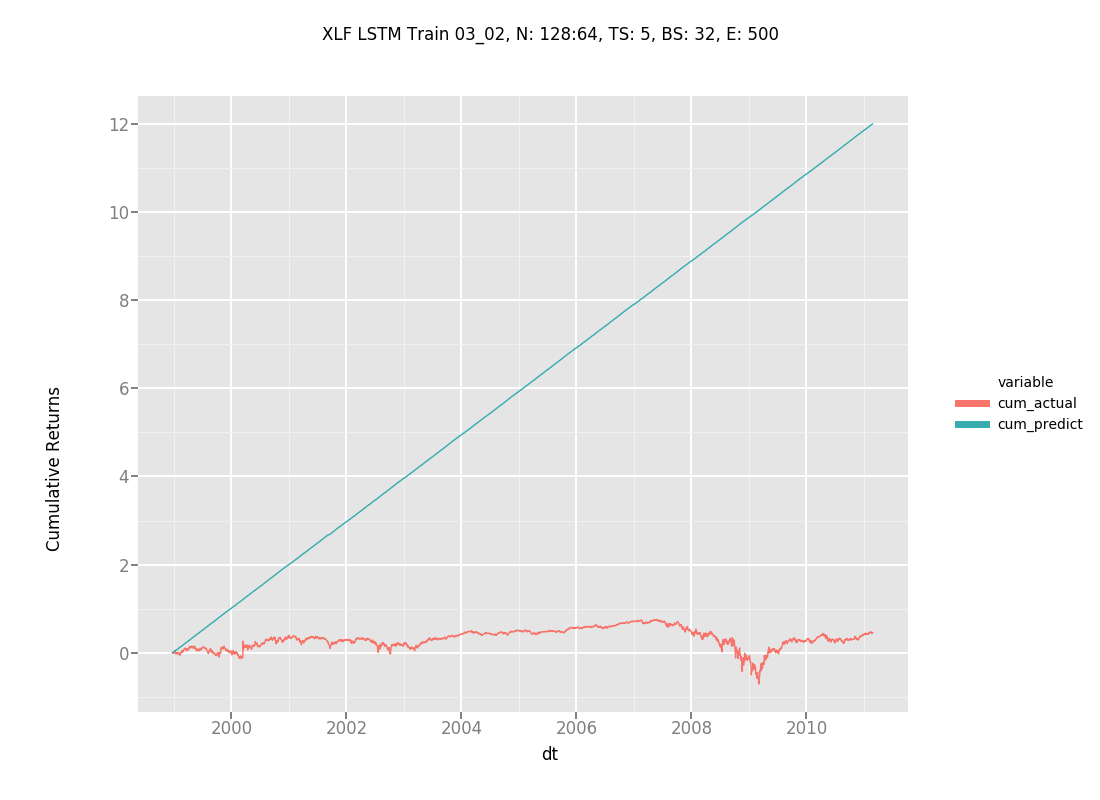
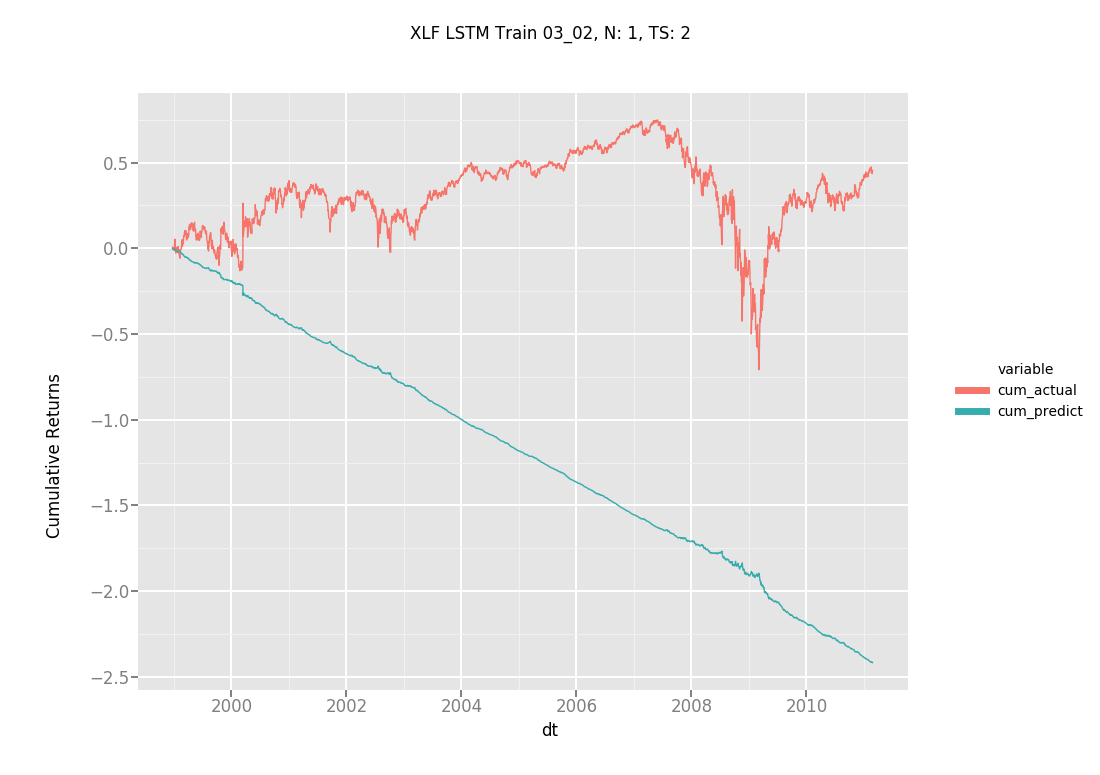
added partial bet for 03_02

diff --git a/03/02/plot.py b/03/02/plot.py
@@ -3,7 +3,7 @@ import pandas as pd
 from ggplot import *
 conn = psycopg2.connect(dbname="ventris", host="192.168.1.119", user="ventris_admin", password="X4NAdu")
 
-plot_title = "XLF LSTM Train 03_02, N: 128:64, TS: 5, BS: 32, E: 500"
+plot_title = "XLF LSTM Train 03_02, N: 1, TS: 2"
 
 # Plot scatterplot 
 plot_query = """
@@ -32,3 +32,63 @@ ggplot(pd.melt(plot_cum_df, id_vars=['dt']), aes(x='dt', y='value', color='varia
     geom_line() +\
     ggtitle(plot_title) +\
     labs(y = "Cumulative Returns")
+
+
+plot_profit_query = """
+SELECT
+  dt
+, cum_actual
+, cum_predict
+, SUM(profit) OVER (ORDER BY dt) as cum_profit
+FROM 
+(
+  SELECT
+    dt
+  , SUM(ret) OVER (ORDER BY dt) AS cum_actual
+  , SUM(prediction) OVER (ORDER BY dt) AS cum_predict
+  , CASE 
+      WHEN LAG(prediction, 1) OVER (ORDER BY dt) > 0 THEN -ret 
+      WHEN LAG(prediction, 1) OVER (ORDER BY dt) < 0 THEN ret
+      ELSE 0
+      END AS profit
+  FROM lstm_madness_train_03_02
+  ORDER BY dt
+) p
+"""
+
+plot_cum_profit_df = pd.read_sql_query(plot_profit_query, con=conn)
+
+ggplot(pd.melt(plot_cum_profit_df, id_vars=['dt']), aes(x='dt', y='value', color='variable')) +\
+    geom_line() +\
+    ggtitle(plot_title) +\
+    labs(y = "Cum Profit vs Returns")
+
+
+plot_partial_size_query = """
+SELECT
+  dt
+, cum_actual
+, cum_predict
+, SUM(profit) OVER (ORDER BY dt) as cum_profit
+FROM 
+(
+  SELECT
+    dt
+  , SUM(ret) OVER (ORDER BY dt) AS cum_actual
+  , SUM(prediction) OVER (ORDER BY dt) AS cum_predict
+  , CASE 
+      WHEN LAG(prediction, 1) OVER (ORDER BY dt) > 0 THEN -ret * 100 * abs(prediction)
+      WHEN LAG(prediction, 1) OVER (ORDER BY dt) < 0 THEN ret * 100 * abs(prediction)
+      ELSE 0
+      END AS profit
+  FROM lstm_madness_train_03_02
+  ORDER BY dt
+) p
+"""
+
+plot_cum_profit_df = pd.read_sql_query(plot_partial_size_query, con=conn)
+
+ggplot(pd.melt(plot_cum_profit_df, id_vars=['dt']), aes(x='dt', y='value', color='variable')) +\
+    geom_line() +\
+    ggtitle(plot_title) +\
+    labs(y = "PNL - partial bets")

diff --git a/04/02/lstm_03_02.py b/04/02/lstm_03_02.py
@@ -1,5 +1,5 @@
 """
-LSTM with 128:64 Neurons, 2 time steps, 1000 epochs
+LSTM with 128:64 Neurons, 5 time steps, 500 epochs
 """
 import os
 import time
@@ -20,7 +20,7 @@ conn = psycopg2.connect(dbname="ventris", host="127.0.0.1", user="ventris_admin"
 engine = create_engine('postgresql://ventris_admin:X4NAdu@localhost:5432/ventris')
 
 ITERATION = "03_02"
-TIME_STEPS = 2
+TIME_STEPS = 5
 TRAIN_TABLENAME = "lstm_madness_train_%s" % ITERATION
 
 def df_dataset(query, conn):
@@ -152,8 +152,11 @@ number_of_features = train_x.shape[2]
 
 d = 0.2
 model = Sequential()
-model.add(LSTM(1, input_dim=number_of_features))
+model.add(LSTM(128, input_dim=number_of_features, return_sequences=True))
 model.add(Dropout(d))
+model.add(LSTM(64, input_dim=number_of_features, return_sequences=False))
+model.add(Dropout(d))
+model.add(Dense(16,init='uniform',activation='relu'))        
 model.add(Dense(1,init='uniform',activation='linear'))
 model.compile(loss='mse',optimizer='adam',metrics=['accuracy'])
 
@@ -161,7 +164,7 @@ model.fit(
     train_x,
     train_y,
     batch_size=32,
-    nb_epoch=1000,
+    nb_epoch=500,
     validation_split=0.1,
     verbose=1)
 

diff --git a/04/02/plot.py b/04/02/plot.py
@@ -1,0 +1,34 @@
+import psycopg2
+import pandas as pd
+from ggplot import *
+conn = psycopg2.connect(dbname="ventris", host="192.168.1.119", user="ventris_admin", password="X4NAdu")
+
+plot_title = "XLF LSTM Train 03_02, N: 128:64, TS: 5, BS: 32, E: 500"
+
+# Plot scatterplot 
+plot_query = """
+SELECT * 
+FROM lstm_madness_train_03_02
+ORDER BY index
+"""
+
+plot_df = pd.read_sql_query(plot_query, con=conn)
+
+p = ggplot(aes(x='ret', y='prediction'), data=plot_df)
+p + geom_point() + ggtitle(plot_title)
+
+# Plot cumulative returns
+plot_cum_query = """
+SELECT dt
+, SUM(ret) OVER (ORDER BY dt) AS cum_actual
+, SUM(prediction) OVER (ORDER BY dt) AS cum_predict
+FROM lstm_madness_train_03_02
+ORDER BY index
+"""
+
+plot_cum_df = pd.read_sql_query(plot_cum_query, con=conn)
+
+ggplot(pd.melt(plot_cum_df, id_vars=['dt']), aes(x='dt', y='value', color='variable')) +\
+    geom_line() +\
+    ggtitle(plot_title) +\
+    labs(y = "Cumulative Returns")

diff --git a/03/plot.py b/03/plot.py
@@ -3,7 +3,7 @@ import pandas as pd
 from ggplot import *
 conn = psycopg2.connect(dbname="ventris", host="192.168.1.119", user="ventris_admin", password="X4NAdu")
 
-plot_title = "XLF LSTM Train 03, N: 128:64, TS: 2"
+plot_title = "XLF LSTM Train 03, N: 2 TS: 2"
 
 # Plot scatterplot 
 plot_query = """

diff --git a/03/02/README.md b/03/02/README.md
@@ -1,3 +1,3 @@
 # 03_02
 
-Let's try a smaller batch size (32) and reduce epochs to 500. 
+Let's go back to two periods but only 1 neuron. 

diff --git a/04/02/README.md b/04/02/README.md
@@ -1,0 +1,3 @@
+# 03_02
+
+Let's try a smaller batch size (32) and reduce epochs to 500. 
